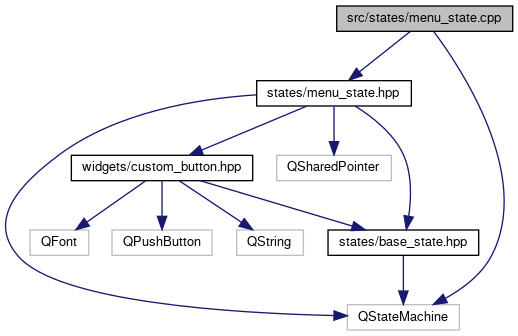
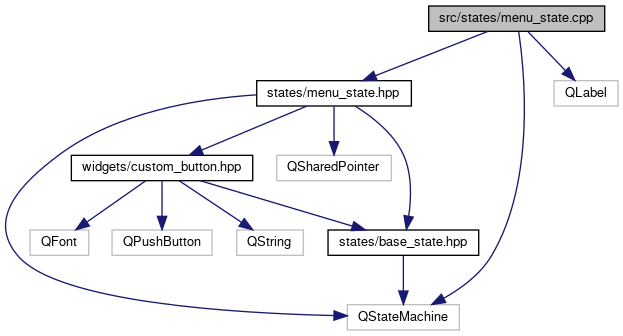
Update docs

diff --git a/docs/menu__state_8hpp_source.html b/docs/menu__state_8hpp_source.html
@@ -133,9 +133,9 @@ $(function() {
 <div class="ttc" id="aclasskmanager_1_1state_1_1BaseState_html"><div class="ttname"><a href="classkmanager_1_1state_1_1BaseState.html">kmanager::state::BaseState</a></div><div class="ttdoc">Class used to construct the base state of the app.</div><div class="ttdef"><b>Definition:</b> base_state.hpp:34</div></div>
 <div class="ttc" id="aclasskmanager_1_1state_1_1MenuState_html"><div class="ttname"><a href="classkmanager_1_1state_1_1MenuState.html">kmanager::state::MenuState</a></div><div class="ttdoc">Class used to construct the menu state of the app.</div><div class="ttdef"><b>Definition:</b> menu_state.hpp:41</div></div>
 <div class="ttc" id="aclasskmanager_1_1state_1_1MenuState_html_a351d2e468fa6536d7aeef0adaab4806b"><div class="ttname"><a href="classkmanager_1_1state_1_1MenuState.html#a351d2e468fa6536d7aeef0adaab4806b">kmanager::state::MenuState::p_manager_button</a></div><div class="ttdeci">QSharedPointer&lt; widgets::CustomButton &gt; p_manager_button</div><div class="ttdef"><b>Definition:</b> menu_state.hpp:53</div></div>
-<div class="ttc" id="aclasskmanager_1_1state_1_1MenuState_html_a731312e58ed9fb2d4c80977af1cb55d2"><div class="ttname"><a href="classkmanager_1_1state_1_1MenuState.html#a731312e58ed9fb2d4c80977af1cb55d2">kmanager::state::MenuState::~MenuState</a></div><div class="ttdeci">~MenuState()</div><div class="ttdoc">Destruct a new MenuState object.</div><div class="ttdef"><b>Definition:</b> menu_state.cpp:49</div></div>
+<div class="ttc" id="aclasskmanager_1_1state_1_1MenuState_html_a731312e58ed9fb2d4c80977af1cb55d2"><div class="ttname"><a href="classkmanager_1_1state_1_1MenuState.html#a731312e58ed9fb2d4c80977af1cb55d2">kmanager::state::MenuState::~MenuState</a></div><div class="ttdeci">~MenuState()</div><div class="ttdoc">Destruct a new MenuState object.</div><div class="ttdef"><b>Definition:</b> menu_state.cpp:50</div></div>
 <div class="ttc" id="aclasskmanager_1_1state_1_1MenuState_html_a825bcbe0caa7b56c7d042c714580da97"><div class="ttname"><a href="classkmanager_1_1state_1_1MenuState.html#a825bcbe0caa7b56c7d042c714580da97">kmanager::state::MenuState::host</a></div><div class="ttdeci">QWidget * host</div><div class="ttdef"><b>Definition:</b> menu_state.hpp:56</div></div>
-<div class="ttc" id="aclasskmanager_1_1state_1_1MenuState_html_ab16656315a7886f95573e3f2785e94de"><div class="ttname"><a href="classkmanager_1_1state_1_1MenuState.html#ab16656315a7886f95573e3f2785e94de">kmanager::state::MenuState::MenuState</a></div><div class="ttdeci">MenuState(QWidget *host, QState *parent=nullptr)</div><div class="ttdoc">Construct a new MenuState object.</div><div class="ttdef"><b>Definition:</b> menu_state.cpp:31</div></div>
+<div class="ttc" id="aclasskmanager_1_1state_1_1MenuState_html_ab16656315a7886f95573e3f2785e94de"><div class="ttname"><a href="classkmanager_1_1state_1_1MenuState.html#ab16656315a7886f95573e3f2785e94de">kmanager::state::MenuState::MenuState</a></div><div class="ttdeci">MenuState(QWidget *host, QState *parent=nullptr)</div><div class="ttdoc">Construct a new MenuState object.</div><div class="ttdef"><b>Definition:</b> menu_state.cpp:32</div></div>
 <div class="ttc" id="acustom__button_8hpp_html"><div class="ttname"><a href="custom__button_8hpp.html">custom_button.hpp</a></div></div>
 <div class="ttc" id="anamespacekmanager_1_1state_html"><div class="ttname"><a href="namespacekmanager_1_1state.html">kmanager::state</a></div><div class="ttdef"><b>Definition:</b> base_state.cpp:21</div></div>
 </div><!-- fragment --></div><!-- contents -->

diff --git a/docs/menu__state_8cpp.html b/docs/menu__state_8cpp.html
@@ -75,14 +75,16 @@ $(function() {
 <div class="contents">
 <div class="textblock"><code>#include &lt;<a class="el" href="menu__state_8hpp_source.html">states/menu_state.hpp</a>&gt;</code><br />
 <code>#include &lt;QStateMachine&gt;</code><br />
+<code>#include &lt;QLabel&gt;</code><br />
 </div><div class="textblock"><div class="dynheader">
 Include dependency graph for menu_state.cpp:</div>
 <div class="dyncontent">
 <div class="center"><img src="menu__state_8cpp__incl.png" border="0" usemap="#asrc_2states_2menu__state_8cpp" alt=""/></div>
 <map name="asrc_2states_2menu__state_8cpp" id="asrc_2states_2menu__state_8cpp">
-<area shape="rect" title=" " alt="" coords="337,5,513,32"/>
+<area shape="rect" title=" " alt="" coords="429,5,605,32"/>
 <area shape="rect" href="menu__state_8hpp.html" title=" " alt="" coords="257,80,411,107"/>
 <area shape="rect" title=" " alt="" coords="347,304,459,331"/>
+<area shape="rect" title=" " alt="" coords="554,80,618,107"/>
 <area shape="rect" href="base__state_8hpp.html" title=" " alt="" coords="328,229,479,256"/>
 <area shape="rect" href="custom__button_8hpp.html" title=" " alt="" coords="71,155,253,181"/>
 <area shape="rect" title=" " alt="" coords="277,155,391,181"/>
